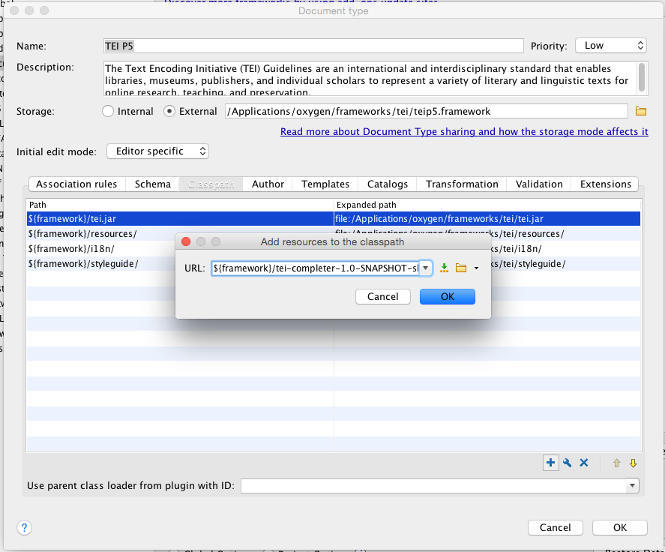
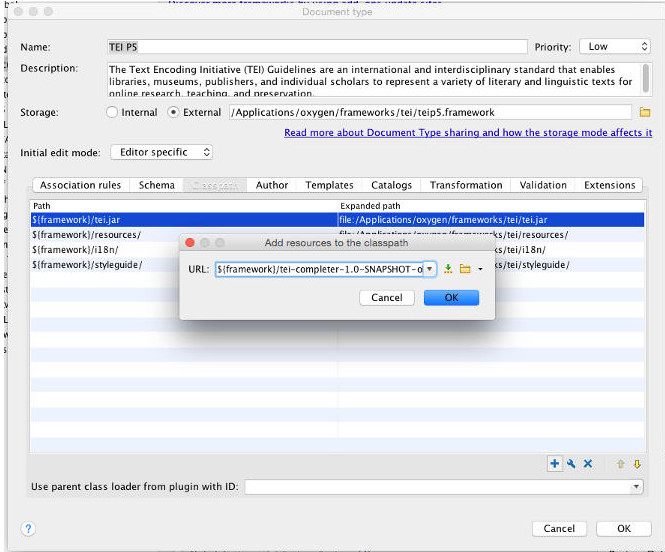
Use '-oxygen-plugin' as the classifier instead of '-shaded'

Changed region(s): [[0.0, 0.0, 1.0, 1.0]]

diff --git a/README.md b/README.md
@@ -13,7 +13,7 @@ The plugin has been developed at the [Belgrade Center for Digital Humanities](ht
 
 # Installation
 
-1. Copy the file `tei-completer-1.0-SNAPSHOT-shaded.jar` to `$OXYGEN_HOME/frameworks/tei`.
+1. Copy the file `tei-completer-1.0-SNAPSHOT-oxygen-plugin.jar` to `$OXYGEN_HOME/frameworks/tei`.
 
 	- The location of `$OXYGEN_HOME` will depend on where you have installed Oxygen XML Editor. The following are the known
 default locations for Oxygen:
@@ -40,7 +40,7 @@ default locations for Oxygen:
 
 8. Select the *Classpath* tab, and then click on the `+` button under the list of paths.
 
-9. In the dialog box *Add resources to the classpath*, enter the following text `${framework}/tei-completer-1.0-SNAPSHOT-shaded.jar`, and then click the *OK* button.
+9. In the dialog box *Add resources to the classpath*, enter the following text `${framework}/tei-completer-1.0-SNAPSHOT-oxygen-plugin.jar`, and then click the *OK* button.
 
 	![alt text](https://raw.githubusercontent.com/BCDH/TEI-Completer/master/doc/images/oxygen-edit-tei-p5-document-type-association.jpg "Editing the TEI P5 framework classpath")
 
@@ -208,7 +208,7 @@ $ cd TEI-Completer.git
 $ mvn package
 ```
 
-The compiled uber jar file can then be found at `target/tei-completer-1.0-SNAPSHOT-shaded.jar`.
+The compiled uber jar file can then be found at `target/tei-completer-1.0-SNAPSHOT-oxygen-plugin.jar`.
 
 
 # Acknowledgements
